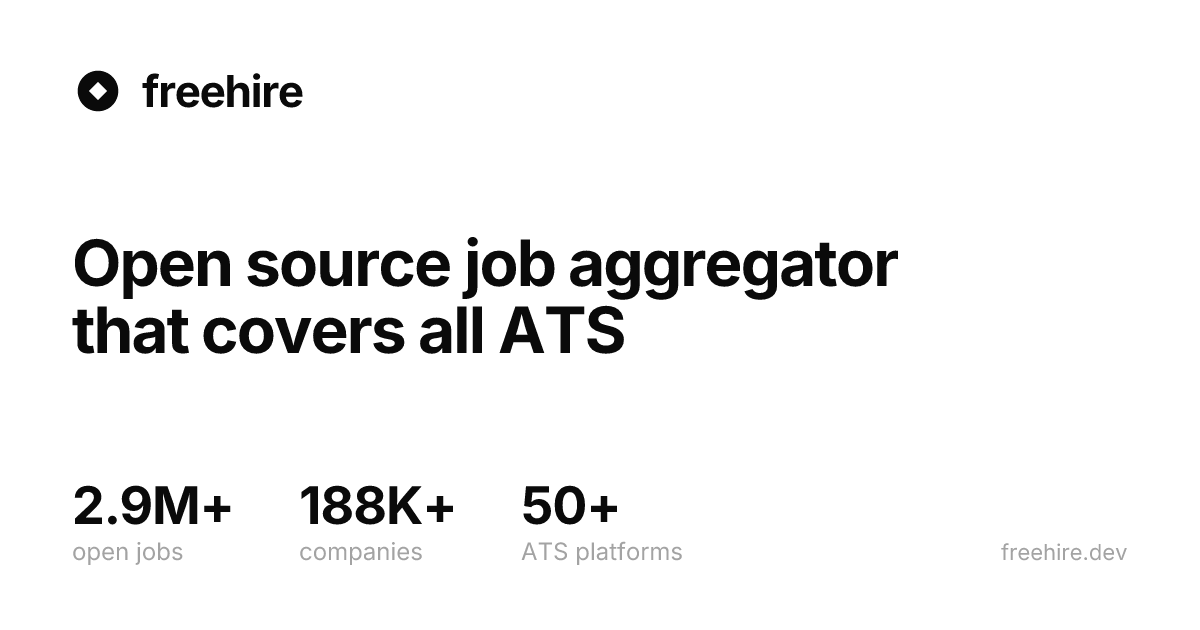
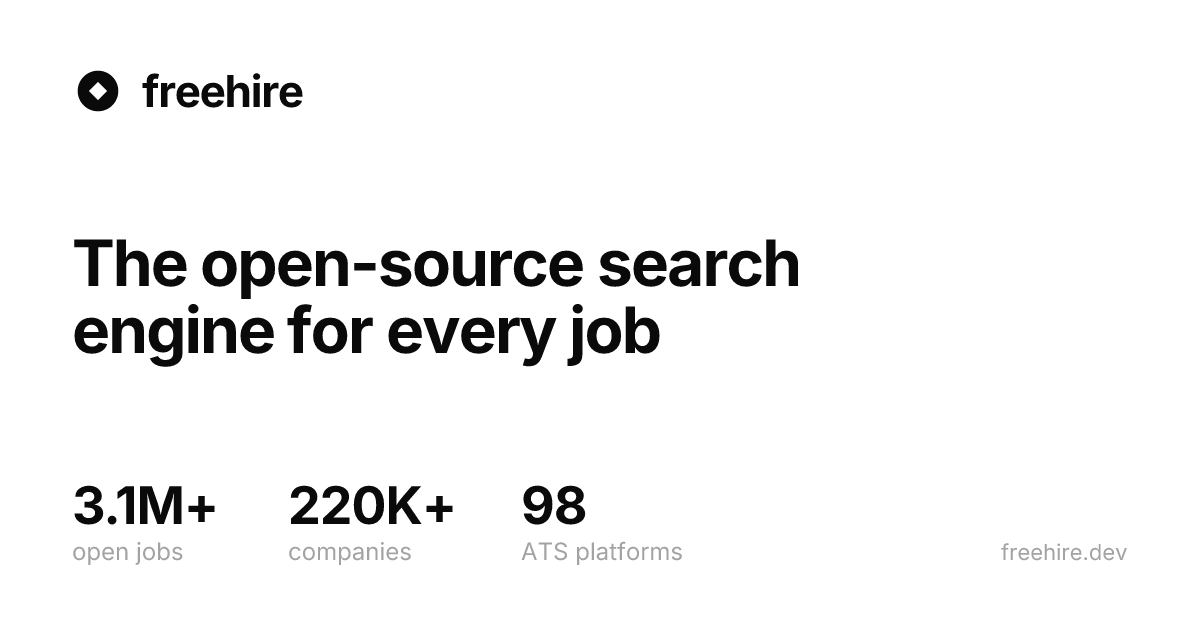
feat(web): reposition as an open-source search engine and refresh catalogue figures (#680)
Shift the site's positioning from "job aggregator" to "search engine for
jobs" across the shareable surfaces, and update the baked-in catalogue
figures to the live prod totals:

- OG brand card headline: "…job aggregator…" → "The open-source search
  engine for every job"; stats 2.9M+/188K+/50+ → 3.1M+/220K+/98 (og.png
  regenerated via gen-og.mjs)
- Home + About meta title/description and the JSON-LD SITE_DESCRIPTION
  reframed around "search engine" / "indexes"
- About hero h1: "in one clean feed" → "one search"
- HomeView fallback figures mirror the OG stats

Copy-only; svelte-check clean (pre-existing JobFitFull warnings only).

diff --git a/web/src/lib/components/HomeView.svelte b/web/src/lib/components/HomeView.svelte
@@ -17,9 +17,9 @@
   // The under-the-fold stats strip: two live totals, then the two constants —
   // ATS breadth and licensing — that don't need a query.
   const figures = $derived([
-    { value: compact(stats.jobs, '2.9M+'), label: 'open jobs' },
-    { value: compact(stats.companies, '188K+'), label: 'companies' },
-    { value: '50+', label: 'ATS platforms' },
+    { value: compact(stats.jobs, '3.1M+'), label: 'open jobs' },
+    { value: compact(stats.companies, '220K+'), label: 'companies' },
+    { value: '98', label: 'ATS platforms' },
     { value: '100%', label: 'open source' },
   ]);
 
@@ -129,7 +129,7 @@
           class="reveal mt-6 max-w-2xl text-balance text-5xl font-semibold leading-[0.95] tracking-tighter sm:text-7xl"
           style="--d:80ms"
         >
-          Every tech job,<br />in one clean feed.
+          Every tech job,<br />one search.
         </h1>
 
         <p class="reveal mt-7 max-w-xl text-lg leading-relaxed text-muted-foreground" style="--d:160ms">

diff --git a/web/src/routes/+page.svelte b/web/src/routes/+page.svelte
@@ -10,8 +10,8 @@
 </script>
 
 <Seo
-  title="freehire — every tech job, in one clean feed"
-  description="Browse tech jobs aggregated straight from company career boards — deduplicated and tagged by stack, seniority and location. Filter by remote policy and more. Free and open source."
+  title="freehire — the open-source search engine for tech jobs"
+  description="Search 3M+ tech jobs indexed straight from company career boards — deduplicated and tagged by stack, seniority and location. Free, open source, no walls."
   {canonical}
 />
 

diff --git a/web/src/routes/about/+page.svelte b/web/src/routes/about/+page.svelte
@@ -19,8 +19,8 @@
 </script>
 
 <Seo
-  title="About freehire — the open-source tech job aggregator"
-  description="FreeHire aggregates tech jobs straight from company career boards, deduplicates them, and tags each with stack, seniority and location. Free and open source."
+  title="About freehire — the open-source search engine for tech jobs"
+  description="FreeHire is an open-source search engine for tech jobs: it indexes millions of openings straight from company career boards, deduplicates them, and tags each with stack, seniority and location. Free and open source."
   {canonical}
 />
 

diff --git a/web/src/lib/seo.ts b/web/src/lib/seo.ts
@@ -9,7 +9,7 @@ import type { Company, Enrichment, Job } from './types';
 const SITE = 'freehire';
 // Site-level facts reused across the homepage WebSite/Organization schema.
 const SITE_DESCRIPTION =
-  'FreeHire aggregates tech jobs straight from company career boards, deduplicates them, and tags each with stack, seniority and location. Free and open source.';
+  'FreeHire is an open-source search engine for tech jobs: it indexes millions of openings straight from company career boards, deduplicates them, and tags each with stack, seniority and location. Free and open source.';
 const SITE_GITHUB = 'https://github.com/strelov1/freehire';
 
 /** One question/answer pair; the shape shared by the visible FAQ and its schema. */

diff --git a/web/src/lib/server/og/brand.ts b/web/src/lib/server/og/brand.ts
@@ -10,7 +10,7 @@
 
 import { MARK_DATA_URI, OG_HEIGHT, OG_WIDTH, esc } from './shared';
 
-const HEADLINE = 'Open source job aggregator that covers all ATS';
+const HEADLINE = 'The open-source search engine for every job';
 
 export type BrandStat = { value: string; label: string };
 